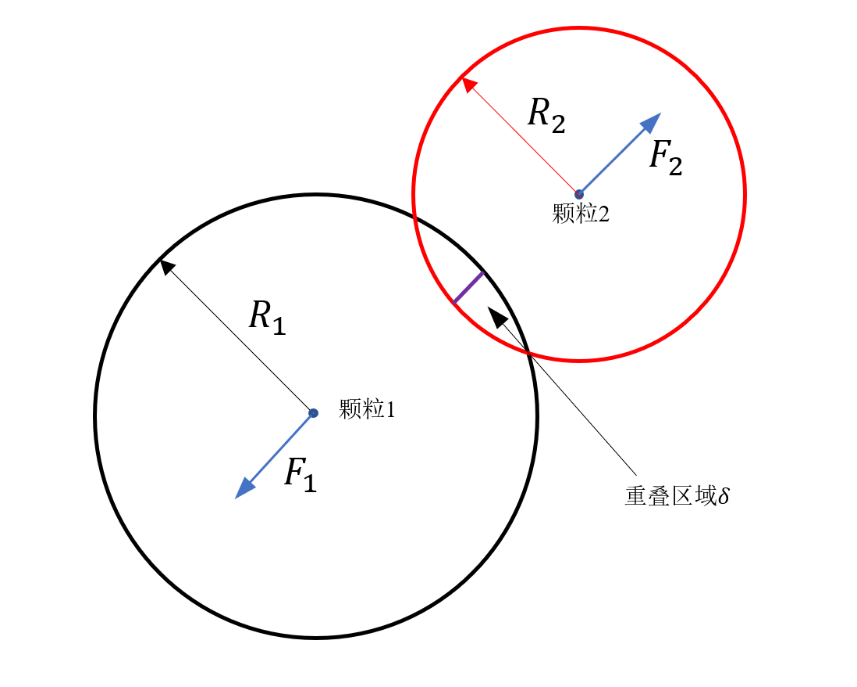
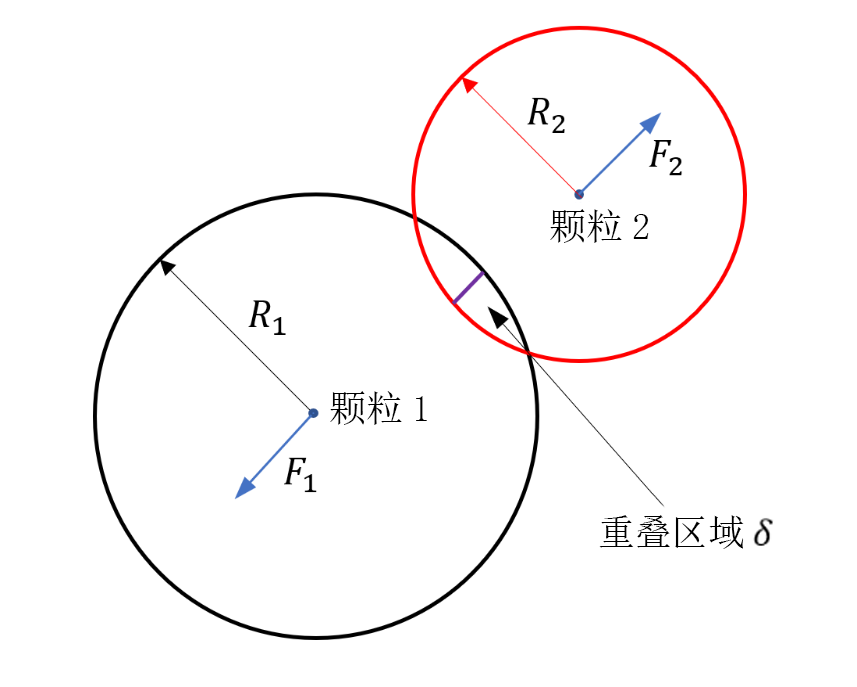
修改第一章图片

Changed region(s): [[0.6978, 0.7031, 0.9102, 0.7948], [0.6371, 0.2751, 0.7585, 0.3668], [0.3944, 0.5502, 0.5158, 0.6114]]

diff --git a/chapters/chapter1/chapter1.tex b/chapters/chapter1/chapter1.tex
@@ -62,7 +62,7 @@
     \begin{figure}[htbp]
     \centering
     % 双颗粒碰撞模型示意图：改用外部图片（原 TikZ 手绘图见 git 历史）
-    \includegraphics[width=12cm]{figure/kelipengzhuang.png}
+    \includegraphics[width=8cm]{figure/kelipengzhuang.png}
     \caption{双颗粒碰撞模型示意图}
     \label{fig:particle_collision}
 \end{figure}
